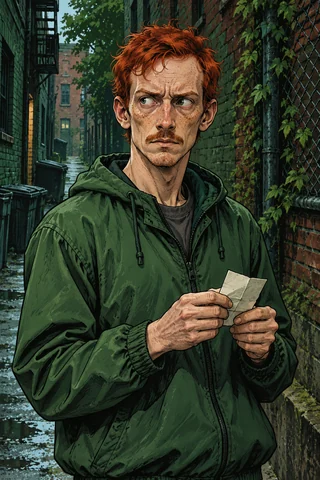
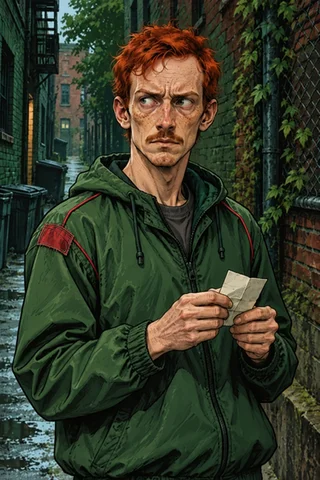
design: organic city backdrop, neutralizing fixer and unobstructed trick controls

diff --git a/frontend/src/index.css b/frontend/src/index.css
@@ -234,6 +234,11 @@ body {
 .compact-hand > [data-selected="true"]:hover { transform:translateY(-18px); }
 .played-card-label { white-space:nowrap; }
 .game-table { overflow:clip; }
+.game-center { flex-shrink:0; }
+.game-center > [data-testid="central-trick-cauldron"] { height:auto; padding:14px 8px 20px; }
+.trick-cards { position:relative; width:100%; padding:8px 0; }
+.game-table > div:last-child { position:relative; isolation:isolate; flex-shrink:0; margin-top:12px; }
+[data-testid="btn-continue-trick"] { position:relative; z-index:2; touch-action:manipulation; }
 .compact-hand > * { transition:transform .32s cubic-bezier(.18,.8,.25,1),box-shadow .35s ease,opacity .28s ease,filter .28s ease; }
 .game-roster > * { transition:background-color .45s ease,border-color .45s ease,box-shadow .45s ease,opacity .35s ease; }
 .last-trick-button { transition:background-color .25s ease,box-shadow .25s ease,transform .2s ease; }
@@ -261,6 +266,9 @@ body {
   .game-center [data-testid^="played-trick-card-"] { width:48px; height:76px; }
   .game-center [data-testid^="played-trick-card-"] .font-display { font-size:16px; }
   .game-center > div > div { gap:5px; }
+  .game-center .trick-cards { display:grid; grid-template-columns:repeat(3,minmax(0,1fr)); max-width:300px; gap:14px 4px; }
+  .game-center .played-card { min-width:0; }
+  .game-center > [data-testid="central-trick-cauldron"] { padding:10px 4px 16px; }
   .game-table > div:last-child { padding:4px 8px 10px; }
   .game-table > div:last-child .text-lg, .game-table > div:last-child .text-xl { font-size:13px; }
   .game-table > div:last-child button:not([data-testid^="hand-card-"]):not([data-testid^="pass-card-"]) { padding-top:7px; padding-bottom:7px; }
@@ -325,6 +333,19 @@ body {
 .game-roster .crew-player > :first-child { background:#263936!important; border-color:#71826b!important; box-shadow:none!important; transform:none!important; }
 .game-roster .crew-player > :first-child svg { filter:none!important; color:#efe6cf; stroke:#efe6cf; }
 .game-center > [data-testid="central-trick-cauldron"] { border:1px dashed #d9c8a318; background:radial-gradient(ellipse at center,#48716b18,transparent 75%)!important; border-radius:20%; }
+/* Soft photographic neighborhood behind the printed tabletop. */
+.coven-bg { background-color:#1b2928; background-image:linear-gradient(180deg,#152322b8,#182522d9),url("./assets/backgrounds/high-rises.webp"); background-size:cover; background-position:center; background-repeat:no-repeat; }
+.game-roster .crew-player { border:3px solid #9b7855; border-left:5px solid #c49258; background:linear-gradient(115deg,#f2e3c5,#d7ccb7); box-shadow:2px 4px 0 #08131166,inset 0 0 0 1px #fff3; }
+.game-roster .crew-player:nth-child(even) { background:linear-gradient(115deg,#e5eed8,#c9d9ce); border-left-color:#64968b; }
+.crew-name { text-shadow:0 1px 0 #fff5; }
+.card-suit-stamp svg,.card-pip svg { fill:var(--suit-ink); fill-opacity:.18; stroke-linejoin:round; }
+.game-roster .crew-player > :first-child { border-radius:42% 48% 40% 46%; box-shadow:1px 2px 0 #0004!important; }
+.crew-heat { padding:2px 4px; background:#f8e3cd; border:1px solid #a24d3e; border-radius:3px 5px 3px 2px; }
+.crew-heat b { font-family:"Barlow Condensed",sans-serif; font-size:15px; line-height:1; }
+.crew-card-count { padding:2px 3px; border:1px solid #657166; border-radius:3px; background:#eee9d4; }
+.played-card-label { background:#eee4cdf2!important; color:#243732; border:1px solid #89795e!important; box-shadow:1px 2px 0 #0004; }
+.played-card-label > span { color:#243732!important; }
+.street-card[data-special="water"] .card-pip-top { box-shadow:2px 2px 0 #c73a36; }
 @media(max-width:639px) {
   .crew-name { font-size:10px; gap:2px; }
   .crew-name > span:first-child { max-width:72px; }

diff --git a/frontend/src/components/Avatar.jsx b/frontend/src/components/Avatar.jsx
@@ -22,10 +22,11 @@ export function Avatar({ avatar, size = 40, active = false, className = "" }) {
         backgroundColor: "#171a21",
         backgroundImage: `radial-gradient(circle at 30% 25%, ${color}33, transparent 70%)`,
         border: `1.5px solid ${color}aa`,
-        boxShadow: active ? `0 0 0 2px ${color}, 0 0 18px ${color}99` : `0 0 6px ${color}33`,
+        boxShadow: active ? `0 0 0 2px ${color}, 2px 3px 0 #0005` : `2px 2px 0 #0004`,
+        borderRadius: "42% 48% 40% 46%",
       }}
     >
-      <Icon size={Math.round(size * 0.5)} color={color} strokeWidth={2} style={{ filter: `drop-shadow(0 0 4px ${color}88)` }} />
+      <Icon size={Math.round(size * 0.58)} color={color} strokeWidth={2.5} fill={`${color}30`} />
     </div>
   );
 }

diff --git a/frontend/src/components/PlayerIdentity.jsx b/frontend/src/components/PlayerIdentity.jsx
@@ -7,7 +7,7 @@ export function PlayerIdentity({ name, heat, cards, children }) {
     <div className="crew-name" title={name}><span>{name}</span>{children}</div>
     <div className="crew-stats">
       <span className="crew-heat" data-heat={heat >= 50 ? "high" : heat >= 25 ? "warm" : "low"} aria-label={`${heat} Hitze`}>
-        <Flame size={11} aria-hidden="true"/><b>{heat}</b><span>Hitze</span>
+        <Flame size={11} fill="currentColor" strokeWidth={1.4} aria-hidden="true"/><b>{heat}</b><span>Hitze</span>
       </span>
       <span className="crew-card-count" aria-label={`${cards} Karten`}><Layers size={10} aria-hidden="true"/>{cards}</span>
     </div>

diff --git a/frontend/src/assets/cards/README.md b/frontend/src/assets/cards/README.md
@@ -33,3 +33,13 @@ Generated anew with the built-in image-generation tool. Shared style: original f
 - Laufjunge: male courier, age 20, slim, youthful clean-shaven face, shaggy blond hair under a backwards black baseball cap, charcoal sweatshirt, silver-grey vest and messenger bag. Cool monochrome grey alley, no gold, yellow, beige or cream clothing.
 
 Risk specials (red 11, green 11/12) use a warning triangle and dark warning label. Helpful specials (blue/yellow 11) use a shield/check and light protection label. These cues are display-only and do not modify rules. Neutral runner framing is now cool silver-grey, explicitly distinct from golden yellow.
+
+## Organic tabletop revision (7 October 2026)
+
+Built-in image generation was used, not CLI/API fallback. Final project assets:
+
+- `../backgrounds/high-rises.webp`: original photorealistic wide European apartment towers at dusk, concrete balconies, warm windows and leafy trees. Soft atmospheric light, muted teal/sandstone, uncluttered center behind UI. No neon, futuristic skyline, people, logos or text. 1536 × 1024, optimized WebP.
+- `air.webp`: full-bleed 2:3 detailed painted editorial street-comic portrait. Mature calm Black male fixer, cropped silver hair and neat beard, navy work jacket. Reassuring open hand, folding a red warning notice into a worn blue folder to convey neutralizing trouble. Natural brick courtyard, screenprinted paper texture. Quiet corners for code-rendered pips; no text, borders, weapons or magical effects.
+- `water.webp`: precise edit of the previous informant. Preserve face, red hair, pose, green jacket, note, alley and illustrated style. Add only a small worn red chest/shoulder fabric patch and subtle red jacket piping to signal red heat risk. Predominantly green, no text or framing.
+
+The card illustrations remain 320 × 480. Suit identity and game rules are unchanged.
